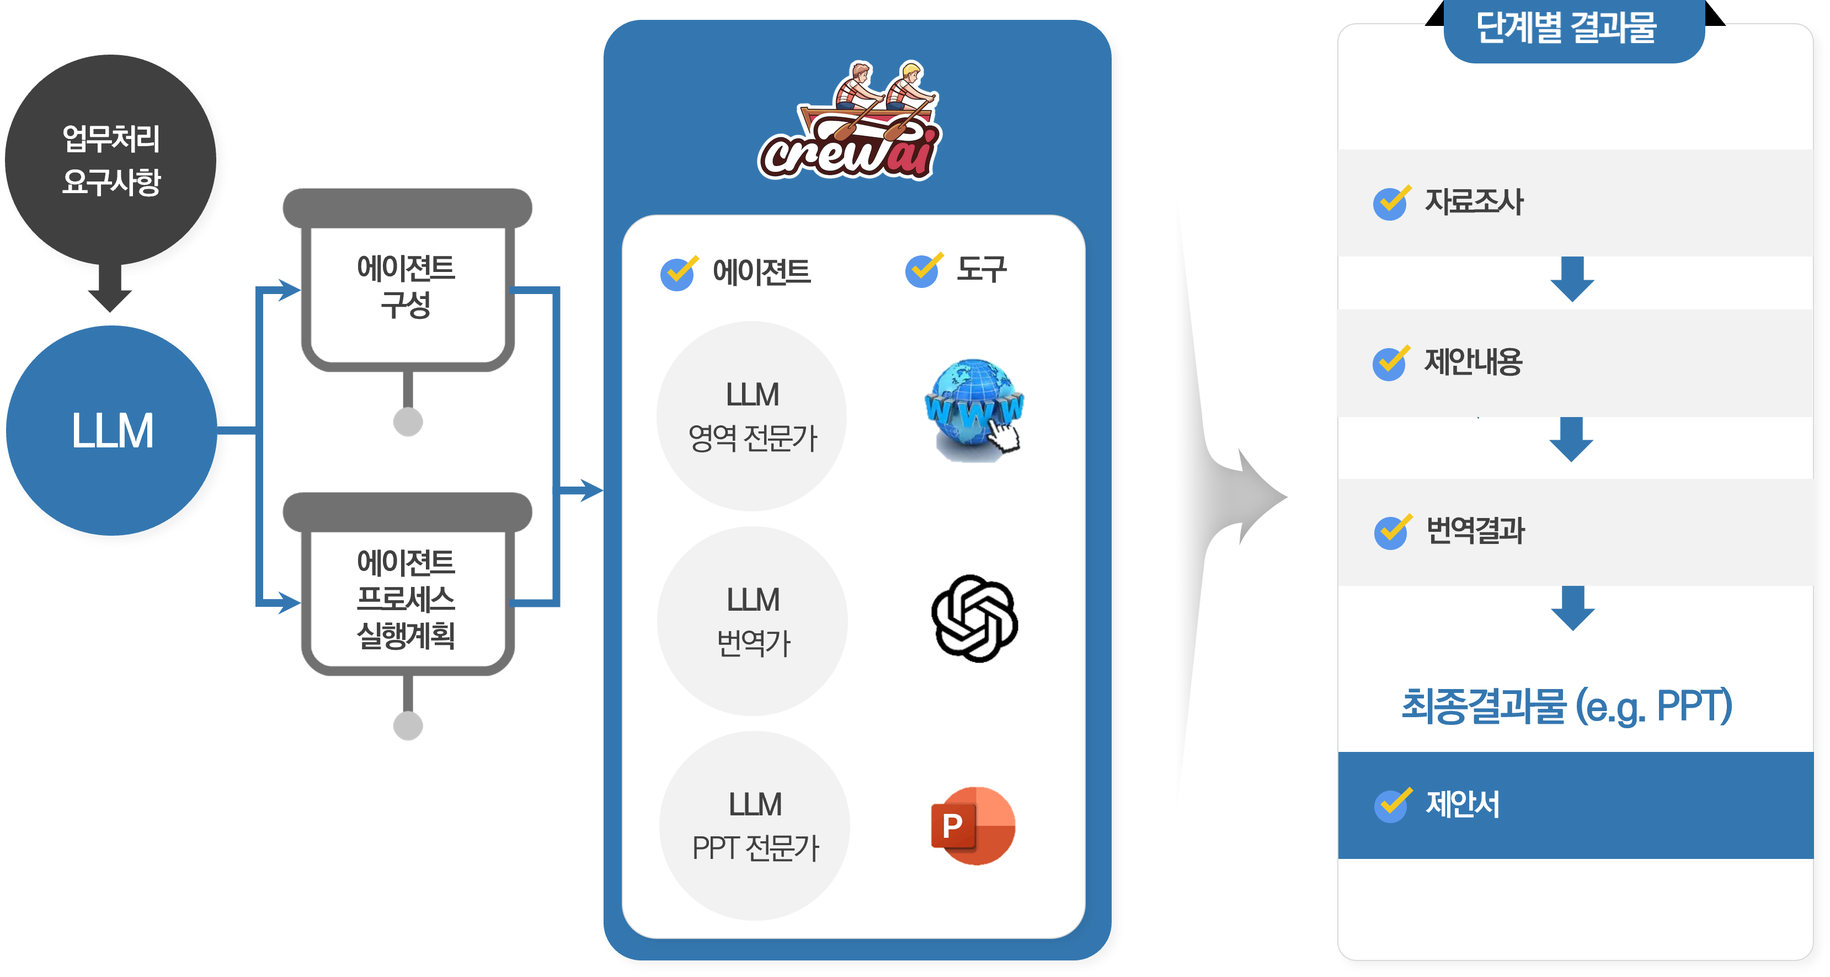
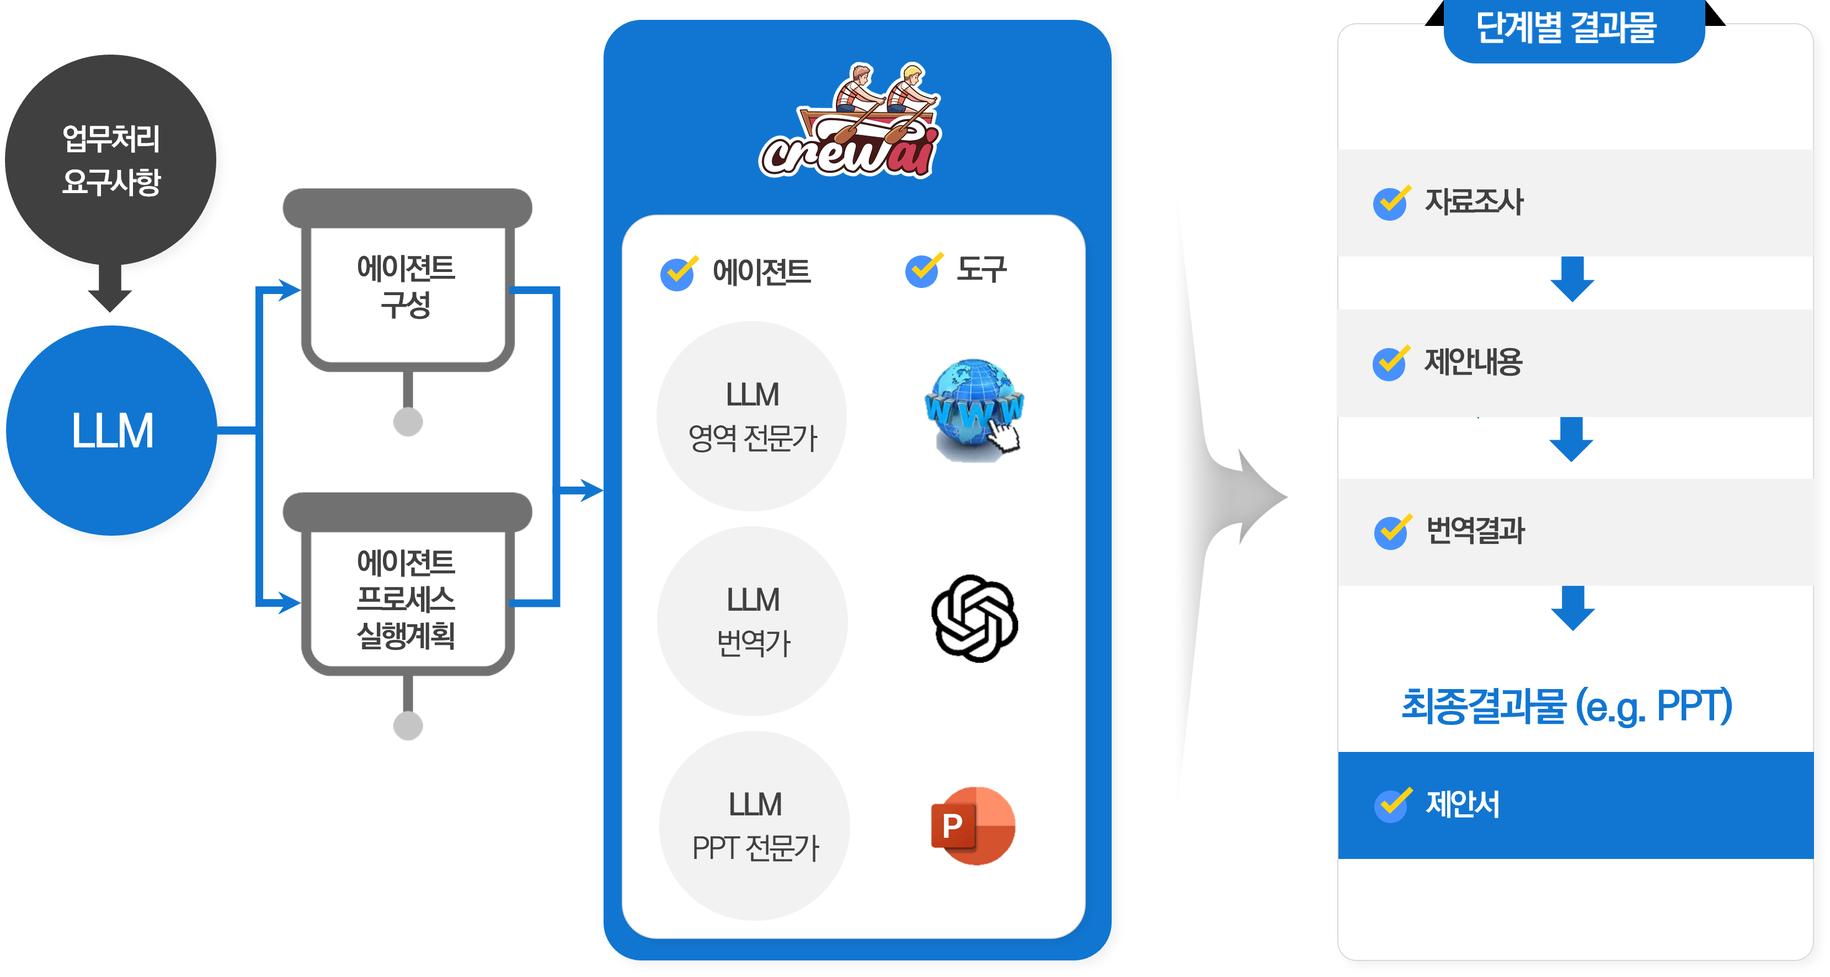
날짜 추가 및 임박 표시 추가 및 메인페이지 색상 맞춤

diff --git a/src/views/pages/landingpage/mainPage/sections/CasesSection.vue b/src/views/pages/landingpage/mainPage/sections/CasesSection.vue
@@ -17,19 +17,19 @@
           <ul class="space-y-2 text-gray-700">
             <li class="flex items-start">
               <svg xmlns="http://www.w3.org/2000/svg" class="h-5 w-5 text-blue-600 mr-2 flex-shrink-0" fill="none" viewBox="0 0 24 24" stroke="currentColor">
-                <path stroke-linecap="round" stroke-linejoin="round" stroke-width="2" d="M5 13l4 4L19 7"/>
+                <path stroke="#1976D2" stroke-linecap="round" stroke-linejoin="round" stroke-width="2" d="M5 13l4 4L19 7"/>
               </svg>
               <span>프로세스 관리 중심의 시스템 아키텍처 구현</span>
             </li>
             <li class="flex items-start">
               <svg xmlns="http://www.w3.org/2000/svg" class="h-5 w-5 text-blue-600 mr-2 flex-shrink-0" fill="none" viewBox="0 0 24 24" stroke="currentColor">
-                <path stroke-linecap="round" stroke-linejoin="round" stroke-width="2" d="M5 13l4 4L19 7"/>
+                <path stroke="#1976D2" stroke-linecap="round" stroke-linejoin="round" stroke-width="2" d="M5 13l4 4L19 7"/>
               </svg>
               <span>프로세스 변경 용이성 확보</span>
             </li>
             <li class="flex items-start">
               <svg xmlns="http://www.w3.org/2000/svg" class="h-5 w-5 text-blue-600 mr-2 flex-shrink-0" fill="none" viewBox="0 0 24 24" stroke="currentColor">
-                <path stroke-linecap="round" stroke-linejoin="round" stroke-width="2" d="M5 13l4 4L19 7"/>
+                <path stroke="#1976D2" stroke-linecap="round" stroke-linejoin="round" stroke-width="2" d="M5 13l4 4L19 7"/>
               </svg>
               <span>프로세스에 대한 접근성 향상</span>
             </li>
@@ -46,19 +46,19 @@
           <ul class="space-y-2 text-gray-700">
             <li class="flex items-start">
               <svg xmlns="http://www.w3.org/2000/svg" class="h-5 w-5 text-blue-600 mr-2 flex-shrink-0" fill="none" viewBox="0 0 24 24" stroke="currentColor">
-                <path stroke-linecap="round" stroke-linejoin="round" stroke-width="2" d="M5 13l4 4L19 7"/>
+                <path stroke="#1976D2" stroke-linecap="round" stroke-linejoin="round" stroke-width="2" d="M5 13l4 4L19 7"/>
               </svg>
               <span>통합된 하나의 워크리스트를 통한 업무환경 구축</span>
             </li>
             <li class="flex items-start">
               <svg xmlns="http://www.w3.org/2000/svg" class="h-5 w-5 text-blue-600 mr-2 flex-shrink-0" fill="none" viewBox="0 0 24 24" stroke="currentColor">
-                <path stroke-linecap="round" stroke-linejoin="round" stroke-width="2" d="M5 13l4 4L19 7"/>
+                <path stroke="#1976D2" stroke-linecap="round" stroke-linejoin="round" stroke-width="2" d="M5 13l4 4L19 7"/>
               </svg>
               <span>비정형, 동적병렬분기, 이벤트분기 등 복잡한 프로세스 수용</span>
             </li>
             <li class="flex items-start">
               <svg xmlns="http://www.w3.org/2000/svg" class="h-5 w-5 text-blue-600 mr-2 flex-shrink-0" fill="none" viewBox="0 0 24 24" stroke="currentColor">
-                <path stroke-linecap="round" stroke-linejoin="round" stroke-width="2" d="M5 13l4 4L19 7"/>
+                <path stroke="#1976D2" stroke-linecap="round" stroke-linejoin="round" stroke-width="2" d="M5 13l4 4L19 7"/>
               </svg>
               <span>외산벤더보다 유연성과 확장성 입증</span>
             </li>
@@ -75,19 +75,19 @@
           <ul class="space-y-2 text-gray-700">
             <li class="flex items-start">
               <svg xmlns="http://www.w3.org/2000/svg" class="h-5 w-5 text-blue-600 mr-2 flex-shrink-0" fill="none" viewBox="0 0 24 24" stroke="currentColor">
-                <path stroke-linecap="round" stroke-linejoin="round" stroke-width="2" d="M5 13l4 4L19 7"/>
+                <path stroke="#1976D2" stroke-linecap="round" stroke-linejoin="round" stroke-width="2" d="M5 13l4 4L19 7"/>
               </svg>
               <span>BPM 도입을 통한 이상 발생 처리 효율성 확보</span>
             </li>
             <li class="flex items-start">
               <svg xmlns="http://www.w3.org/2000/svg" class="h-5 w-5 text-blue-600 mr-2 flex-shrink-0" fill="none" viewBox="0 0 24 24" stroke="currentColor">
-                <path stroke-linecap="round" stroke-linejoin="round" stroke-width="2" d="M5 13l4 4L19 7"/>
+                <path stroke="#1976D2" stroke-linecap="round" stroke-linejoin="round" stroke-width="2" d="M5 13l4 4L19 7"/>
               </svg>
               <span>가변성이 많은 프로세스에 대한 자동화 및 프로세스 자산화</span>
             </li>
             <li class="flex items-start">
               <svg xmlns="http://www.w3.org/2000/svg" class="h-5 w-5 text-blue-600 mr-2 flex-shrink-0" fill="none" viewBox="0 0 24 24" stroke="currentColor">
-                <path stroke-linecap="round" stroke-linejoin="round" stroke-width="2" d="M5 13l4 4L19 7"/>
+                <path stroke="#1976D2" stroke-linecap="round" stroke-linejoin="round" stroke-width="2" d="M5 13l4 4L19 7"/>
               </svg>
               <span>시스템 구성원들 간 협업 처리 신속성과 효율성 확보</span>
             </li>

diff --git a/src/views/pages/landingpage/mainPage/sections/SpecialSection.vue b/src/views/pages/landingpage/mainPage/sections/SpecialSection.vue
@@ -11,29 +11,39 @@
       <p class="text-lg text-gray-700 text-center max-w-4xl mx-auto mb-12">Process GPT는 기존 AI 에이전트 시스템과 달리 비즈니스 프로세스를 자동으로 식별하고 구현하는 혁신적인 접근 방식을 제공합니다. 사용자는 코딩 지식 없이도 자연어 대화만으로 복잡한 비즈니스 프로세스를 정의하고 실행할 수 있습니다.</p>
         <div class="grid grid-cols-1 md:grid-cols-3 gap-8 mb-12">
           <div class="bg-white p-8 rounded-lg shadow-md">
-            <div class="w-12 h-12 bg-blue-600 text-white rounded-full flex items-center justify-center text-xl font-bold mb-4">1</div>
+            <div class="w-12 h-12 text-white rounded-full flex items-center justify-center text-xl font-bold mb-4"
+                style="background-color: #1976D2;"
+            >1</div>
             <h3 class="text-xl font-bold mb-4">코딩 지식 불필요</h3>
             <p class="text-gray-700">일반 사용자가 프로그래밍 개념 없이도 프로세스 흐름의 적합성만 피드백하면 AI가 내부적으로 BPMN 기반 프로세스를 정의합니다.</p>
           </div>
           <div class="bg-white p-8 rounded-lg shadow-md">
-            <div class="w-12 h-12 bg-blue-600 text-white rounded-full flex items-center justify-center text-xl font-bold mb-4">2</div>
+            <div class="w-12 h-12 text-white rounded-full flex items-center justify-center text-xl font-bold mb-4"
+                style="background-color: #1976D2;"
+            >2</div>
             <h3 class="text-xl font-bold mb-4">자가 학습 및 개선</h3>
             <p class="text-gray-700">업무 프로세스 인스턴스가 발생할 때 사용자 피드백을 통해 자동으로 프로세스가 개선되며 지속적인 발전이 이루어집니다.</p>
           </div>
           <div class="bg-white p-8 rounded-lg shadow-md">
-            <div class="w-12 h-12 bg-blue-600 text-white rounded-full flex items-center justify-center text-xl font-bold mb-4">3</div>
+            <div class="w-12 h-12 text-white rounded-full flex items-center justify-center text-xl font-bold mb-4"
+                style="background-color: #1976D2;"
+            >3</div>
             <h3 class="text-xl font-bold mb-4">프로세스 컨설팅 서비스</h3>
             <p class="text-gray-700">사용자와의 대화를 통해 비즈니스 프로세스를 도출하고, 자동 투어를 통해 피드백을 수집하며 프로세스를 정립합니다.</p>
           </div>
         </div>
         <div class="grid grid-cols-1 md:grid-cols-2 gap-8">
           <div class="bg-white p-8 rounded-lg shadow-md">
-            <div class="w-12 h-12 bg-blue-600 text-white rounded-full flex items-center justify-center text-xl font-bold mb-4">4</div>
+            <div class="w-12 h-12 text-white rounded-full flex items-center justify-center text-xl font-bold mb-4"
+                style="background-color: #1976D2;"
+            >4</div>
             <h3 class="text-xl font-bold mb-4">자동화된 에이전트 배치</h3>
             <p class="text-gray-700">프로세스에 필요한 에이전트를 자동으로 식별하여 BPMN의 SwimLane(업무 역할)에 매핑하고 프롬프트를 자동 생성합니다.</p>
           </div>
           <div class="bg-white p-8 rounded-lg shadow-md">
-            <div class="w-12 h-12 bg-blue-600 text-white rounded-full flex items-center justify-center text-xl font-bold mb-4">5</div>
+            <div class="w-12 h-12 text-white rounded-full flex items-center justify-center text-xl font-bold mb-4"
+                style="background-color: #1976D2;"
+            >5</div>
             <h3 class="text-xl font-bold mb-4">BPMN 기반 표준 프로세스 표기법</h3>
             <p class="text-gray-700">약 20년 동안 축적된 비즈니스 프로세스 표기법을 활용하여 업계 표준을 준수하는 프로세스를 구현합니다.</p>
           </div>
@@ -92,7 +102,7 @@ export default {
 <style scoped>
 .special {
   padding: 80px 0;
-  background-color: rgb(var(--v-theme-primary), 0.1) !important;
+  background-color: rgb(#1976D2, 0.1) !important;
 }
 
 

diff --git a/src/views/pages/landingpage/mainPage/sections/ExtensibilitySection.vue b/src/views/pages/landingpage/mainPage/sections/ExtensibilitySection.vue
@@ -17,19 +17,19 @@
           <ul class="space-y-4 text-gray-700">
             <li class="flex items-start">
               <svg xmlns="http://www.w3.org/2000/svg" class="h-6 w-6 text-blue-600 mr-2 flex-shrink-0" fill="none" viewBox="0 0 24 24" stroke="currentColor">
-                <path stroke-linecap="round" stroke-linejoin="round" stroke-width="2" d="M9 12l2 2 4-4m6 2a9 9 0 11-18 0 9 9 0 0118 0z"/>
+                <path stroke="#1976D2" stroke-linecap="round" stroke-linejoin="round" stroke-width="2" d="M9 12l2 2 4-4m6 2a9 9 0 11-18 0 9 9 0 0118 0z"/>
               </svg>
               <span>JSON 포맷</span>
             </li>
             <li class="flex items-start">
               <svg xmlns="http://www.w3.org/2000/svg" class="h-6 w-6 text-blue-600 mr-2 flex-shrink-0" fill="none" viewBox="0 0 24 24" stroke="currentColor">
-                <path stroke-linecap="round" stroke-linejoin="round" stroke-width="2" d="M9 12l2 2 4-4m6 2a9 9 0 11-18 0 9 9 0 0118 0z"/>
+                <path stroke="#1976D2" stroke-linecap="round" stroke-linejoin="round" stroke-width="2" d="M9 12l2 2 4-4m6 2a9 9 0 11-18 0 9 9 0 0118 0z"/>
               </svg>
               <span>Python 모듈</span>
             </li>
             <li class="flex items-start">
               <svg xmlns="http://www.w3.org/2000/svg" class="h-6 w-6 text-blue-600 mr-2 flex-shrink-0" fill="none" viewBox="0 0 24 24" stroke="currentColor">
-                <path stroke-linecap="round" stroke-linejoin="round" stroke-width="2" d="M9 12l2 2 4-4m6 2a9 9 0 11-18 0 9 9 0 0118 0z"/>
+                <path stroke="#1976D2" stroke-linecap="round" stroke-linejoin="round" stroke-width="2" d="M9 12l2 2 4-4m6 2a9 9 0 11-18 0 9 9 0 0118 0z"/>
               </svg>
               <span>API 엔드포인트</span>
             </li>
@@ -45,19 +45,19 @@
           <ul class="space-y-4 text-gray-700">
             <li class="flex items-start">
               <svg xmlns="http://www.w3.org/2000/svg" class="h-6 w-6 text-blue-600 mr-2 flex-shrink-0" fill="none" viewBox="0 0 24 24" stroke="currentColor">
-                <path stroke-linecap="round" stroke-linejoin="round" stroke-width="2" d="M9 12l2 2 4-4m6 2a9 9 0 11-18 0 9 9 0 0118 0z"/>
+                <path stroke="#1976D2" stroke-linecap="round" stroke-linejoin="round" stroke-width="2" d="M9 12l2 2 4-4m6 2a9 9 0 11-18 0 9 9 0 0118 0z"/>
               </svg>
               <span>표준화된 메시징</span>
             </li>
             <li class="flex items-start">
               <svg xmlns="http://www.w3.org/2000/svg" class="h-6 w-6 text-blue-600 mr-2 flex-shrink-0" fill="none" viewBox="0 0 24 24" stroke="currentColor">
-                <path stroke-linecap="round" stroke-linejoin="round" stroke-width="2" d="M9 12l2 2 4-4m6 2a9 9 0 11-18 0 9 9 0 0118 0z"/>
+                <path stroke="#1976D2" stroke-linecap="round" stroke-linejoin="round" stroke-width="2" d="M9 12l2 2 4-4m6 2a9 9 0 11-18 0 9 9 0 0118 0z"/>
               </svg>
               <span>상호운용성 향상</span>
             </li>
             <li class="flex items-start">
               <svg xmlns="http://www.w3.org/2000/svg" class="h-6 w-6 text-blue-600 mr-2 flex-shrink-0" fill="none" viewBox="0 0 24 24" stroke="currentColor">
-                <path stroke-linecap="round" stroke-linejoin="round" stroke-width="2" d="M9 12l2 2 4-4m6 2a9 9 0 11-18 0 9 9 0 0118 0z"/>
+                <path stroke="#1976D2" stroke-linecap="round" stroke-linejoin="round" stroke-width="2" d="M9 12l2 2 4-4m6 2a9 9 0 11-18 0 9 9 0 0118 0z"/>
               </svg>
               <span>에코시스템 확장</span>
             </li>

diff --git a/src/components/apps/todolist/KanbanColumnCard.vue b/src/components/apps/todolist/KanbanColumnCard.vue
@@ -2,8 +2,6 @@
      <div>
         <v-card elevation="10" class="cursor-pointer pa-2 pt-1" @click="executeTask"
             :class="[
-                { 'border-primary': isDueTodayOrTomorrow },
-                { 'border-purple': isPastDue },
                 { 'choice-background-color': isMyTask && !isTodolistPath &&  task.status !== 'DONE'}
             ]"
         >
@@ -51,14 +49,30 @@
                     >
                         TaskId : {{ task.taskId }} / InstId: {{ task.instId }}
                     </div>
-                    <div v-else-if="isMyTask && isTodolistPath" colos="12" class="pa-0">
+                    <div v-else-if="isMyTask && isTodolistPath" class="pa-0">
                         <div class="text-caption" style="white-space: pre-wrap; word-break: break-word; max-width: 100%;">
                             {{ task.procInstName }}
                         </div>
                     </div>
-                    <div v-else colos="12" class="pa-0">
+                    <div v-else class="pa-0">
                         <div class="text-caption" style="white-space: pre-wrap; word-break: break-word; max-width: 100%;">
                             {{ task.instName }}
+                        </div>
+                    </div>
+                    <div class="d-flex align-center justify-between mt-1">
+                        <div class="d-flex align-center">
+                            <v-icon size="16" icon="mdi-calendar" />
+                            <div class="body-text-1 text-dark ml-1">
+                                {{ formattedDate }}
+                            </div>
+                        </div>
+                        <div v-if="isDueTodayOrTomorrow" class="d-flex align-center ml-auto">
+                            <v-icon size="16" icon="mdi-alert" style="color: #FF9800;" />
+                            <span class="text-caption ml-1" style="color: #FF9800;">기한 임박</span>
+                        </div>
+                        <div v-else-if="isPastDue" class="d-flex align-center ml-auto">
+                            <v-icon size="16" icon="mdi-alert-circle" style="color: #F44336;" />
+                            <span class="text-caption ml-1" style="color: #F44336;">기한 지남</span>
                         </div>
                     </div>
                 </div>

diff --git a/src/components/apps/todolist/TodolistCard.vue b/src/components/apps/todolist/TodolistCard.vue
@@ -4,16 +4,17 @@
             <div class="d-flex align-center justify-space-between ml-2">
                 <h5 class="text-h5 font-weight-semibold">{{ ($t('todoList.title')) }}</h5>
 
-                <v-avatar v-if="mode === 'ProcessGPT'"
+                <!-- '나의 업무'에서 기존 TODO였던 '예정 업무' 부분에 업무를 등록하던 버튼은 '예정 업무'가 제거되면서 주석 처리됨 -->
+                <!-- <v-avatar v-if="mode === 'ProcessGPT'"
                     size="24" elevation="10" class="bg-surface d-flex align-center cursor-pointer"
                     @click="openDialog"
                 >
                     <v-tooltip activator="parent" location="left">{{ ($t('todoList.addTask')) }}</v-tooltip>
                     <PlusIcon size="24" stroke-width="2" />
-                </v-avatar>
+                </v-avatar> -->
             </div>
             <KanbanBoard
-                :columns="todolist"
+                :columns="filteredTodolist"
                 :isNotAll="false"
                 :showAddButton="false"
                 @loadMore="handleLoadMore"
@@ -76,6 +77,9 @@ export default {
         isMobile() {
             return window.innerWidth <= 768;
         },
+        filteredTodolist() {
+            return this.todolist.filter(column => column.id !== 'TODO');
+        }
     },
     mounted() {
         this.mode = window.$mode;

diff --git a/src/views/pages/landingpage/mainPage/sections/HeroSection.vue b/src/views/pages/landingpage/mainPage/sections/HeroSection.vue
@@ -9,7 +9,7 @@
           <!-- '시작하기' 버튼과 동일한 구조로 마켓플레이스 버튼 정렬 (to, color, class, height 순서로 통일) -->
           <v-btn @click="gotoStart()"
               to="/definition-map"
-              color="primary"
+              color="#1976D2"
               class="rounded-pill"
               height="48"
           >베타 테스트하기</v-btn>
@@ -24,15 +24,15 @@
         </div>
         <div class="mt-6">
             <a
-                class="text-primary font-medium text-decoration-none"
+                class="font-medium text-decoration-none"
                 href="/assets/images/mainPages/process_gpt_presentation.pdf"
                 target="_blank"
                 rel="noopener"
-                style="width: fit-content; display: block;"
+                style="width: fit-content; display: block; color: #1976D2;"
             >
               <v-row>
                 <div>Technical Report 보기</div>
-                <v-icon class="ml-1" style="margin-top: 1px;" size="18" color="primary">mdi-open-in-new</v-icon>
+                <v-icon class="ml-1" style="margin-top: 1px;" size="18" color="#1976D2">mdi-open-in-new</v-icon>
               </v-row>
             </a>
         </div>

diff --git a/src/views/pages/landingpage/mainPage/ui/TabComponent.vue b/src/views/pages/landingpage/mainPage/ui/TabComponent.vue
@@ -22,10 +22,10 @@
             <p>{{ tab.description }}</p>
             <ul>
               <li v-for="(item, i) in tab.listItems" :key="i">
-                <svg xmlns="http://www.w3.org/2000/svg" class="h-6 w-6 text-blue-600 mr-2 flex-shrink-0" fill="none" viewBox="0 0 24 24" stroke="currentColor">
-                  <path stroke-linecap="round" stroke-linejoin="round" stroke-width="2" d="M9 12l2 2 4-4m6 2a9 9 0 11-18 0 9 9 0 0118 0z"/>
-                </svg>
-                {{ item }}
+                  <svg xmlns="http://www.w3.org/2000/svg" class="h-6 w-6 mr-2 flex-shrink-0" fill="none" viewBox="0 0 24 24">
+                      <path stroke="#1976D2" stroke-linecap="round" stroke-linejoin="round" stroke-width="2" d="M9 12l2 2 4-4m6 2a9 9 0 11-18 0 9 9 0 0118 0z"/>
+                  </svg>
+                  {{ item }}
               </li>
               <!-- <li v-for="(item, i) in tab.listItems" :key="i">{{ item }}</li> -->
             </ul>
@@ -128,11 +128,11 @@ export default {
 }
 
 .tab-btn:hover {
-  color: #4a6cf7;
+  color: #1976D2;
 }
 
 .tab-btn.active {
-  border-bottom: 2px solid #4a6cf7;
+  border-bottom: 2px solid #1976D2;
 }
 
 .tab-content {

diff --git a/src/views/pages/landingpage/mainPage/sections/CTASection.vue b/src/views/pages/landingpage/mainPage/sections/CTASection.vue
@@ -68,7 +68,7 @@ export default {
 
 .cta-box {
   padding: 80px 0;
-  background-color: #4a6cf7;
+  background-color: #1976D2;
   /* background-color: rgb(37 99 235/var(--tw-bg-opacity,1)); */
   position: relative;
   overflow: hidden;
@@ -114,9 +114,9 @@ export default {
 }
 
 .btn-primary-cta {
-  /* background-color: #4a6cf7; */
+  /* background-color: #1976D2; */
   background-color: white;
-  color: #4a6cf7;
+  color: #1976D2;
   /* color: white; */
 }
 
@@ -127,8 +127,8 @@ export default {
 
 .btn-secondary-cta {
   background-color: transparent;
-  /* color: #4a6cf7;
-  border: 1px solid #4a6cf7; */
+  /* color: #1976D2;
+  border: 1px solid #1976D2; */
   color: white;
   border: 1px solid white;
 }

diff --git a/src/components/apps/todolist/InstanceCard.vue b/src/components/apps/todolist/InstanceCard.vue
@@ -112,8 +112,10 @@
 
                             <v-dialog v-model="dialog" persistent
                                 :fullscreen="isMobile"
+                                width="90vw"
+                                max-width="400px"
                             >
-                                <TodoDialog :instId="instance.instId" :defId="instance.defId" :todolist="columns" @close="closeDialog" />
+                                <TodoDialog  :instId="instance.instId" :defId="instance.defId" :todolist="columns" @close="closeDialog" />
                             </v-dialog>
                         </div>
                     </v-window-item>

diff --git a/src/components/apps/todolist/KanbanBoard.vue b/src/components/apps/todolist/KanbanBoard.vue
@@ -3,7 +3,7 @@
         <v-row class="ma-0 pa-0 todo-task-column-box-pc">
             <v-col v-for="column in columns" :key="column.id"
                 class="pa-2 kanban-column"
-                cols="3"
+                :cols="columnCols"
             >
                 <KanbanColumn 
                     :column="column" 
@@ -30,6 +30,11 @@ export default {
     props: {
         columns: Array,
         users: Array,
+    },
+    computed: {
+        columnCols() {
+            return Math.floor(12 / this.columns.length);
+        }
     },
     methods: {
         

diff --git a/src/views/pages/landingpage/mainPage/sections/IntroSection.vue b/src/views/pages/landingpage/mainPage/sections/IntroSection.vue
@@ -122,7 +122,7 @@ export default {
 .value-card div {
    width: 15rem; /* 작은 아이콘 하나일땐 3rem */
   /* font-size: 2rem; */
-  color: #4a6cf7;
+  color: #1976D2;
   margin: 0 auto;
   margin-bottom: 20px;
 }

diff --git a/src/views/pages/landingpage/mainPage/mainPages.css b/src/views/pages/landingpage/mainPage/mainPages.css
@@ -4,7 +4,7 @@
 @tailwind utilities;
 
 :root {
-  --primary-color: #4a6cf7;
+  --primary-color: #1976D2;
   --primary-color-dark: #3a56d4;
   --primary-color-light: #eef2ff;
   --secondary-color: rgb(0,200,255);
